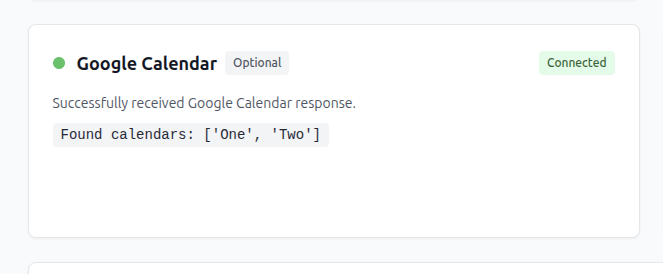
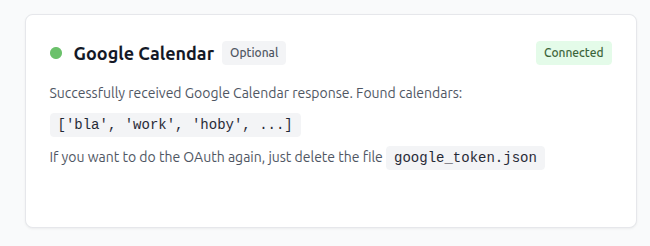
Show meetings in repotr

diff --git a/standup_report/templates/_activity_item.html b/standup_report/templates/_activity_item.html
@@ -1,5 +1,6 @@
 {% set ISSUE_ACTIVITY_CLASS_NAME = 'IssueActivity' %}
 {% set PR_CLASS_NAME = 'PR' %}
+{% set MEETING_CLASS_NAME = 'Meeting' %}
 
 {% set pr_state_emoji = {'OPEN': '⏳', 'MERGED': '🚀', 'CLOSED': '⛔'} %}
 {% set activity_emoji = {'CREATED': '✨', 'COMPLETED': '🎉', 'WORKED_ON': '🔨', 'COMMENTED': '💬', 'CANCELED': '🚫', 'UNKNOWN': '❓'} %}
@@ -9,6 +10,8 @@
   {% set emoji = pr_state_emoji[item.state] %}
 {% elif item.__class__.__name__ == ISSUE_ACTIVITY_CLASS_NAME %}
   {% set emoji = activity_emoji.get(item.activity, '❓') %}
+{% elif item.__class__.__name__ == MEETING_CLASS_NAME %}
+  {% set emoji = '📅' %}
 {% endif %}
 
 {# choose item-class #}
@@ -35,6 +38,14 @@
     {% if item.pr_attachments %}
       <span class="text-gray-500 text-sm pr-attachments">(PR{% if item.pr_attachments|length > 1 %}s{% endif %}: {% for pr in item.pr_attachments %}{% with link_url=pr.url, link_text=pr.short_title %}{% include '_link_with_slack.html' %}{% endwith %}{% if not loop.last %}, {% endif %}{% endfor %})</span>
     {% endif %}
+  {% elif item.__class__.__name__ == MEETING_CLASS_NAME %}
+    <span class="text-gray-500 text-sm meeting-time hidden">[{{ item.start_time.strftime('%a %H:%M') }}]</span>
+    meeting
+    {% with link_url=item.url, link_text=item.title %}{% include '_link_with_slack.html' %}{% endwith %}
+    {% if item.attendees %}
+      <span class="text-gray-500 text-sm">with {% for att in item.attendees[:5] %}{{ att.split('@')[0] }}{% if not loop.last %}, {% endif %}{% endfor %}{% if item.attendees|length > 5 %}, ...{% endif %}</span>
+    {% endif %}
+    <span class="text-gray-500 text-sm">({{ item.calendar.title }})</span>
   {% else %}
     Not implemented
   {% endif %}

diff --git a/standup_report/templates/home.html b/standup_report/templates/home.html
@@ -90,8 +90,8 @@
 
     {% if google_auth_status.is_authenticated %}
       {% if google_calendars and not google_exc %}
-        <div class="text-sm text-gray-600 mb-2">Successfully received Google Calendar response.</div>
-        <code class="bg-gray-100 text-gray-800 px-2 py-1 rounded text-sm">Found calendars: {{ google_calendars }}</code>
+        <div class="text-sm text-gray-600 mb-2">Successfully received Google Calendar response. Found calendars:</div>
+        <code class="bg-gray-100 text-gray-800 px-2 py-1 rounded text-sm">{{ google_calendars }}</code>
       {% else %}
         <div class="bg-red-50 border border-red-200 rounded p-3">
           <p class="text-sm text-red-800 mb-2">REST endpoint <code class="code-red">{{ google_endpoint }}</code>.</p>
@@ -100,6 +100,7 @@
           {% endif %}
         </div>
       {% endif %}
+    <div class="text-sm text-gray-600 my-3">If you want to do the OAuth again, just delete the file <code class="bg-gray-100 text-gray-800 px-2 py-1 rounded text-sm">{{ settings.GOOGLE.TOKEN_FILE_NAME }}</code></div>
     {% elif google_auth_status.needs_auth %}
       <div class="text-sm text-gray-600 mb-3">{{ google_auth_status.message }}</div>
       <a href="{{ url_for('google_auth.start_auth') }}" class="text-blue-600 hover:text-blue-800 text-sm">Connect Google Calendar →</a>

diff --git a/standup_report/static/js/report.js b/standup_report/static/js/report.js
@@ -3,6 +3,7 @@ const showTimestamps = document.getElementById("show-timestamps");
 const showCreated = document.getElementById("show-created");
 const slackFormat = document.getElementById("slack-format");
 const showNoteInputs = document.getElementById("show-note-inputs");
+const showMeetingTimes = document.getElementById("show-meeting-times");
 
 showIgnoreBtns.addEventListener("change", () => {
   document.querySelectorAll(".ignore-btn").forEach((el) => {
@@ -13,6 +14,12 @@ showIgnoreBtns.addEventListener("change", () => {
 showTimestamps.addEventListener("change", () => {
   document.querySelectorAll(".last-change-ago").forEach((el) => {
     el.classList.toggle("hidden", !showTimestamps.checked);
+  });
+});
+
+showMeetingTimes.addEventListener("change", () => {
+  document.querySelectorAll(".meeting-time").forEach((el) => {
+    el.classList.toggle("hidden", !showMeetingTimes.checked);
   });
 });
 

diff --git a/standup_report/templates/report.html b/standup_report/templates/report.html
@@ -44,6 +44,9 @@
       {% with filter_text="Edit notes", filter_id="show-note-inputs" %}
         {% include '_filter.html' %}
       {% endwith %}
+      {% with filter_text="Show meeting times", filter_id="show-meeting-times", checked=false %}
+        {% include '_filter.html' %}
+      {% endwith %}
     </div>
     <div class="flex items-center mt-3 pt-3 border-t border-gray-200 gap-4">
       <span>Actions: </span>

diff --git a/standup_report/google/events.py b/standup_report/google/events.py
@@ -1,0 +1,91 @@
+import logging
+from concurrent.futures import ThreadPoolExecutor
+from datetime import UTC
+from datetime import datetime
+
+from standup_report.calendar_type import Calendar
+from standup_report.calendar_type import Meeting
+from standup_report.exceptions import RemoteException
+from standup_report.google import client
+from standup_report.google.client import get_google_rest_response
+from standup_report.settings import get_settings
+
+logger = logging.getLogger(__name__)
+
+_MEETING_ACCEPTED = "accepted"
+_MEETING_ACCEPTED_TENTATIVE = "tentative"
+
+
+def get_calendar_events(time_min: datetime) -> list[Meeting]:
+    """Fetch events from all calendars in parallel."""
+    logger.info("---------- Fetching Google meetings")
+
+    now = datetime.now(tz=UTC)
+    calendars = fetch_all_calendars()
+
+    def fetch_events_for_calendar(cal: Calendar) -> list[Meeting]:
+        logger.debug(f"Fetching events from calendar {cal}")
+        try:
+            response = get_google_rest_response(
+                path=f"calendars/{cal.remote_id}/events",
+                params={
+                    "timeMin": time_min.isoformat(),
+                    "timeMax": now.isoformat(),
+                    "singleEvents": "true",
+                    "orderBy": "startTime",
+                },
+            )
+        except RemoteException:
+            logger.error(f"Error fetching events from calendar {cal}")
+            return []
+
+        meetings = []
+        for raw_event in response.data.get("items", []):
+            start = raw_event["start"]
+            if "dateTime" in start:
+                start_time = datetime.fromisoformat(start["dateTime"])
+            else:
+                start_time = datetime.strptime(start["date"], "%Y-%m-%d")
+
+            meeting = Meeting(
+                title=raw_event["summary"],
+                calendar=cal,
+                url=raw_event["htmlLink"],
+                remote_id=raw_event["id"],
+                start_time=start_time,
+                attendees=[
+                    att["email"]
+                    for att in raw_event.get("attendees", [])
+                    if att["responseStatus"]
+                    in (_MEETING_ACCEPTED, _MEETING_ACCEPTED_TENTATIVE)
+                    and not att.get("self")
+                ],
+            )
+            logger.info(f"Found {raw_event=}")
+            meetings.append(meeting)
+        return meetings
+
+    with ThreadPoolExecutor() as executor:
+        results = executor.map(fetch_events_for_calendar, calendars)
+
+    all_calendar_events = []
+    for meetings in results:
+        all_calendar_events.extend(meetings)
+
+    return all_calendar_events
+
+
+def fetch_all_calendars() -> list[Calendar]:
+    rest_url = "users/me/calendarList"
+    google_response: dict = client.get_google_rest_response(path=rest_url).data
+    raw_items: list[dict] = google_response.get("items", [])
+    calendars: list[Calendar] = []
+    for raw_cal in raw_items:
+        cal = Calendar(
+            title=raw_cal["summary"],
+            remote_id=raw_cal["id"],
+        )
+        if cal.title in get_settings().GOOGLE.IGNORED_CALENDARS:
+            continue
+        calendars.append(cal)
+    return calendars

diff --git a/standup_report/routes/report.py b/standup_report/routes/report.py
@@ -11,6 +11,8 @@ from flask import render_template
 from standup_report import duckdb_client
 from standup_report import github
 from standup_report import linear
+from standup_report.calendar_type import Meeting
+from standup_report.google import get_calendar_events
 from standup_report.ignore_mixin import ItemType
 from standup_report.issue_type import Issue
 from standup_report.issue_type import IssueActivity
@@ -44,9 +46,14 @@ def build_report(hours: int = 8) -> str:
         time_ago, my_latest_prs, my_open_prs
     )
 
-    all_done: list[PR | IssueActivity] = [
+    my_meetings = []
+    if get_settings().GOOGLE.is_setup:
+        my_meetings = get_calendar_events(time_ago)
+
+    all_done: list[PR | IssueActivity | Meeting] = [
         *my_latest_prs,
         *selected_linear_activity,
+        *my_meetings,
     ]
     all_next: list[PR | Issue] = [
         *my_open_prs,
@@ -59,7 +66,7 @@ def build_report(hours: int = 8) -> str:
         (item_type, item_id) for item_type, item_id, _ in ignored_items
     }
 
-    done_activity: list[PR | IssueActivity] = [
+    done_activity: list[PR | IssueActivity | Meeting] = [
         pr_or_issue
         for pr_or_issue in all_done
         if _get_item_key_for_ignoring(pr_or_issue) not in ignored_keys
@@ -79,6 +86,7 @@ def build_report(hours: int = 8) -> str:
         subtitle=_build_subtitle(hours, time_ago),
         done_activity=done_activity,
         next_activity=next_activity,
+        meetings=my_meetings,
         ignored_items=ignored_items,
         since=time_ago,
         hours=hours,
@@ -152,16 +160,18 @@ def _fetch_work_on_issues(
 
 
 def _get_item_key_for_ignoring(  # noqa: RET503
-    pr_or_issue: PR | Issue,
+    pr_or_issue: PR | Issue | Meeting,
 ) -> tuple[ItemType, str]:
     if isinstance(pr_or_issue, PR):
         return ItemType.PR, pr_or_issue.uid
     if isinstance(pr_or_issue, Issue):
         return ItemType.ISSUE, pr_or_issue.ident
+    if isinstance(pr_or_issue, Meeting):
+        return ItemType.MEETING, pr_or_issue.remote_id
 
 
 def _add_notes_to_items(
-    all_done: Iterable[PR | Issue],
+    all_done: Iterable[PR | Issue | Meeting],
     notes: dict[tuple[ItemType, str, NoteCategory], str],
     *,
     category: NoteCategory,

diff --git a/standup_report/settings.py b/standup_report/settings.py
@@ -21,6 +21,7 @@ _GOOGLE_TOKEN_FILE = "google_token.json"
 
 @dataclass
 class GoogleSettings:
+    IGNORED_CALENDARS: set[str]
 
     @property
     def CREDENTIALS_FILE_NAME(self) -> str:
@@ -37,6 +38,10 @@ class GoogleSettings:
     @property
     def HAS_TOKEN(self) -> bool:
         return os.path.exists(self.TOKEN_FILE_NAME)
+
+    @property
+    def is_setup(self) -> bool:
+        return bool(self.HAS_CREDENTIALS and self.HAS_TOKEN)
 
 
 @dataclass
@@ -95,6 +100,7 @@ def get_settings() -> Settings:
     config = _load_yaml_config()
 
     ignored_repos = config.get("ignored_repos", [])
+    ignored_calendars: list[str] = config.get("ignored_calendars", [])
 
     return Settings(
         GH_LOGIN=env_vars["GH_LOGIN"],
@@ -103,5 +109,5 @@ def get_settings() -> Settings:
         LINEAR_TOKEN=env_vars["LINEAR_TOKEN"],
         LINEAR_EMAIL=env_vars["LINEAR_EMAIL"],
         IGNORED_REPOS=set(ignored_repos),
-        GOOGLE=GoogleSettings(),
+        GOOGLE=GoogleSettings(IGNORED_CALENDARS=set(ignored_calendars)),
     )

diff --git a/standup_report/remote/base_client.py b/standup_report/remote/base_client.py
@@ -100,17 +100,17 @@ def get_rest_response(
         )
     except Exception as exc:
         logger.warning(f"Exception occurred: {exc}", exc_info=exc)
-        raise RemoteException(f"Request to `{url}` raised an exception") from exc
+        raise RemoteException(f"Request to `{full_url}` raised an exception") from exc
 
     check_status_code_of_response(response)
     response_data, json_err = extract_json_body(response)
 
     if json_err:
         raise RemoteException(
-            "Response is not a valid JSON", url=full_url, params=params
+            "Response is not a valid JSON", url=full_url, query=str(params)
         ) from json_err
 
     if response_data is None:
-        raise RemoteException("Response was None", url=full_url, params=params)
+        raise RemoteException("Response was None", url=full_url, query=str(params))
 
     return RESTResponse(data=response_data, response=response)

diff --git a/standup_report/google/auth.py b/standup_report/google/auth.py
@@ -10,6 +10,7 @@ from enum import StrEnum
 # Allow OAuth over HTTP for local development (app runs in "test mode")
 os.environ["OAUTHLIB_INSECURE_TRANSPORT"] = "1"
 
+from google.auth.transport.requests import Request
 from google.oauth2.credentials import Credentials
 from google_auth_oauthlib.flow import Flow
 
@@ -125,12 +126,10 @@ def get_credentials() -> Credentials | None:
         return None
 
     try:
-        creds = Credentials.from_authorized_user_file(
+        creds = Credentials.from_authorized_user_file(  # type: ignore[no-untyped-call]
             google_settings.TOKEN_FILE_NAME, SCOPES
         )
         if creds.expired and creds.refresh_token:
-            from google.auth.transport.requests import Request
-
             creds.refresh(Request())
         return creds if creds.valid else None
     except Exception as e:

diff --git a/standup_report/calendar_type.py b/standup_report/calendar_type.py
@@ -1,0 +1,34 @@
+from dataclasses import dataclass
+from dataclasses import field
+from datetime import datetime
+from typing import ClassVar
+
+from standup_report.ignore_mixin import IgnoreMixin
+from standup_report.ignore_mixin import ItemType
+from standup_report.note_utils import NoteMixin
+
+
+@dataclass
+class Calendar:
+    title: str
+    remote_id: str
+
+
+@dataclass
+class Meeting(IgnoreMixin, NoteMixin):
+    title: str
+    calendar: Calendar
+    url: str
+    remote_id: str
+    start_time: datetime
+    attendees: list[str] = field(default_factory=list)
+
+    ignore_item_type: ClassVar[ItemType] = ItemType.MEETING
+
+    @property
+    def ignore_item_id(self) -> str:
+        return self.remote_id
+
+    @property
+    def ignore_item_title(self) -> str:
+        return self.title

diff --git a/standup_report/routes/home.py b/standup_report/routes/home.py
@@ -93,11 +93,8 @@ def _check_google_conn() -> tuple[str, list[str] | None, StandupReportError | No
     google_calendars: list[str] | None = None
     google_exc: None | StandupReportError = None
     try:
-        google_response: dict = google.client.get_google_rest_response(
-            path=rest_url
-        ).data
-        google_calendars = [item["summary"] for item in google_response["items"]]
+        calendars = google.fetch_all_calendars()
+        google_calendars = [item.title for item in calendars]
     except (RemoteException, SettingsError) as exc:
         google_exc = exc
     return rest_url, google_calendars, google_exc
-

diff --git a/standup_report/routes/google_auth.py b/standup_report/routes/google_auth.py
@@ -22,7 +22,7 @@ def start_auth() -> Response | tuple[str, int]:
     redirect_uri = url_for("google_auth.oauth_callback", _external=True)
     flow = google.start_oauth_flow(redirect_uri)
 
-    authorization_url, state = flow.authorization_url(  # type: ignore[no-untyped-call]
+    authorization_url, _ = flow.authorization_url(  # type: ignore[no-untyped-call]
         access_type="offline",
         include_granted_scopes="true",
         prompt="consent",
